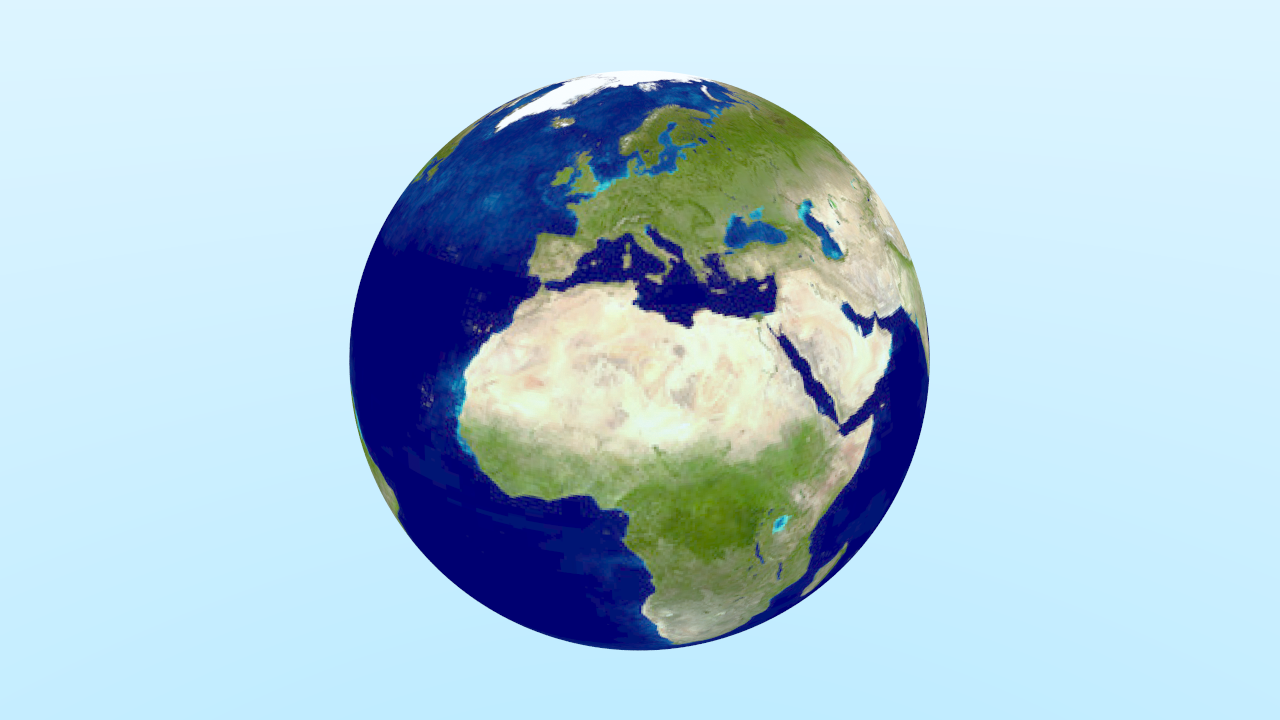
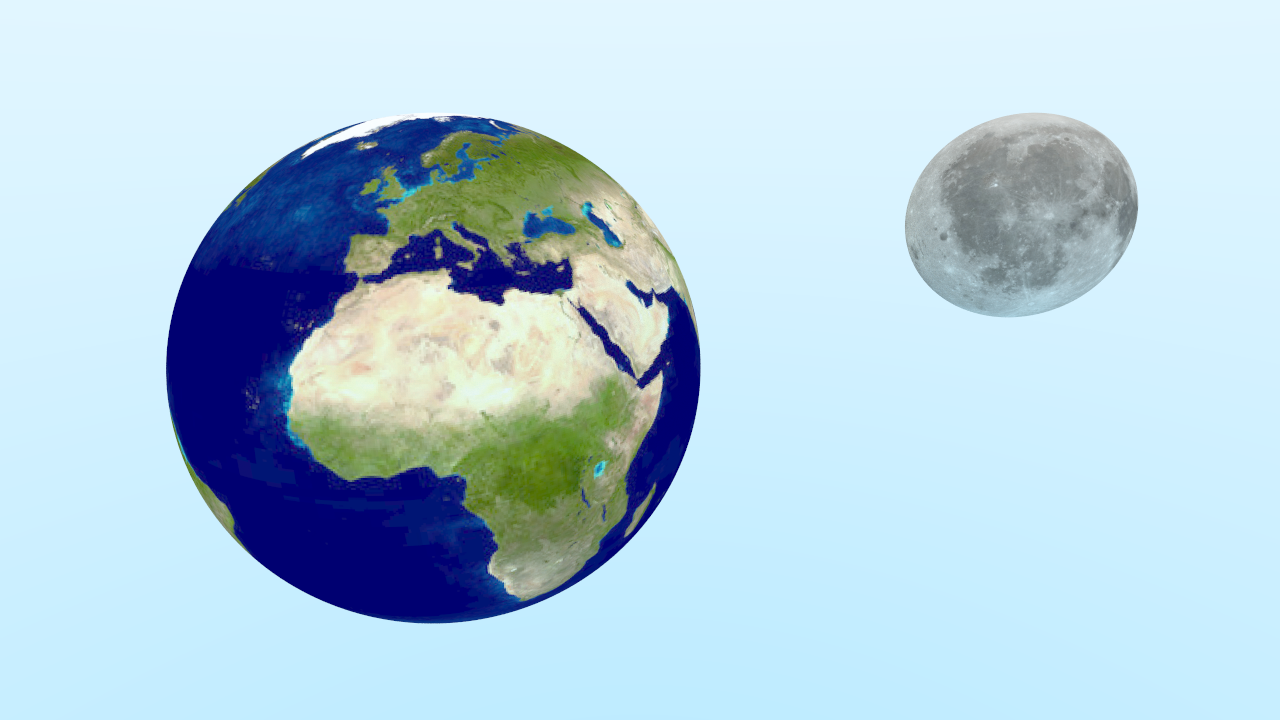
new scene and image for chapter 2.6

diff --git a/Java/Ray Tracing/src/com/raytracing/Scenes.java b/Java/Ray Tracing/src/com/raytracing/Scenes.java
@@ -113,10 +113,17 @@ public class Scenes {
         return objects;
     }
 
-    public static Hittable earth() {
+    public static HittableList earth() {
+        HittableList objects = new HittableList();
+
         Texture earthTexture = new ImageTexture("textures/earthmap.jpg");
         Material earthMat = new Lambertian(earthTexture);
+        objects.add(new Sphere(new Point3(0, 0, 0), 2, earthMat));
 
-        return new Sphere(new Point3(0, 0, 0), 2, earthMat);
+        Texture moonTexture = new ImageTexture("textures/moonmap.jpg");
+        Material moonMat = new Lambertian(moonTexture);
+        objects.add(new Sphere(new Point3(2, 1.5, -3.2), .5, moonMat));
+
+        return objects;
     }
 }

diff --git a/Java/Ray Tracing/src/com/raytracing/Main.java b/Java/Ray Tracing/src/com/raytracing/Main.java
@@ -70,9 +70,9 @@ public class Main {
 
             case 4:
                 world.add(Scenes.earth());
-                lookFrom = new Point3(5, 2.5, -1);
-                lookAt = new Point3(0, 0, 0);
-                vFOV = 50;
+                lookFrom = new Point3(5, 2, -1);
+                lookAt = new Point3(0, 0, -1.5);
+                vFOV = 60;
                 break;
 
             default:
